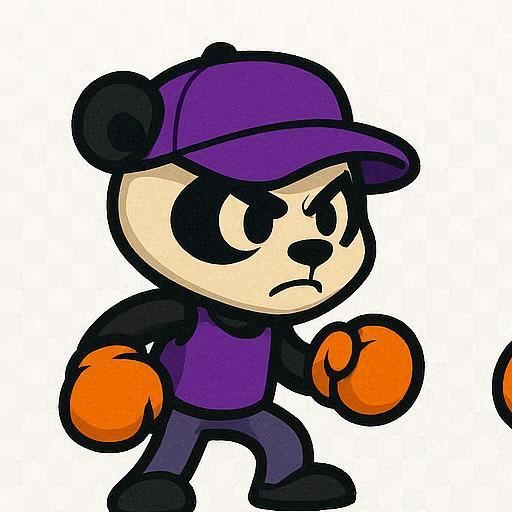
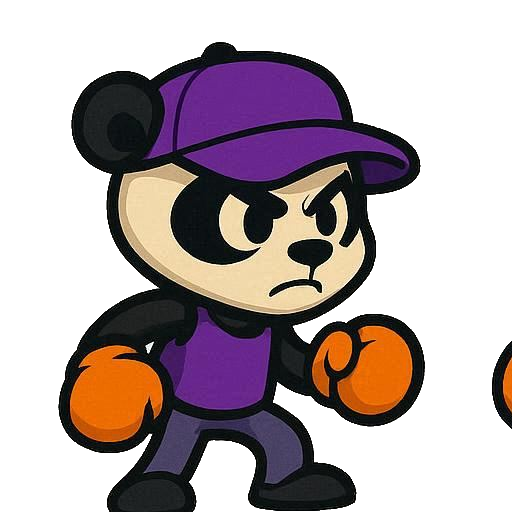
fix: new hero sprites + fix physics body underground bug
- Re-slice heroSprites.png (new cleaner artwork)
- Fix Player body: setOffset used texture coords (220,80) instead of
  world coords. Now setSize(46,68)/setOffset(23,18) aligns feet with
  ground (offset_y + height = 86px = 93% of 92px sprite height)
- Duck pose body corrected too: setSize(46,50)/setOffset(23,36)
- Fix Enemy/Ally scale: placeholder textures are 60-75px, scale was
  0.15 making them invisible; now scale 1.0 with corrected body

diff --git a/src/game/entities/Player.ts b/src/game/entities/Player.ts
@@ -37,8 +37,11 @@ export class Player extends Phaser.Physics.Arcade.Sprite {
 
         const body = this.body as Phaser.Physics.Arcade.Body;
         body.setGravityY(300);
-        body.setSize(60, 90);
-        body.setOffset(220, 80);
+        // Scale 0.18 → sprite displayed at 512*0.18 = 92px world size.
+        // Character feet sit at ~86px from sprite top (93% of cell height).
+        // Body (46×68): offset_y(18) + height(68) = 86 → bottom aligns with feet.
+        body.setSize(46, 68);
+        body.setOffset(23, 18);
         this.setScale(0.18);
         this.setDepth(10);
 
@@ -91,13 +94,14 @@ export class Player extends Phaser.Physics.Arcade.Sprite {
         // --- Duck ---
         if (onGround && this.keyDown.isDown && !moving) {
             this.setState('duck');
-            body.setSize(60, 60);
-            body.setOffset(220, 110);
+            // Shorter body when ducking: offset_y(36) + height(50) = 86 → same feet alignment
+            body.setSize(46, 50);
+            body.setOffset(23, 36);
             this.updateHitbox();
             return;
         } else {
-            body.setSize(60, 90);
-            body.setOffset(220, 80);
+            body.setSize(46, 68);
+            body.setOffset(23, 18);
         }
 
         // --- Jump ---

diff --git a/src/game/entities/Enemy.ts b/src/game/entities/Enemy.ts
@@ -43,8 +43,10 @@ export class Enemy extends Phaser.Physics.Arcade.Sprite {
 
         const body = this.body as Phaser.Physics.Arcade.Body;
         body.setGravityY(400);
-        body.setSize(50, 80);
-        this.setScale(0.15);
+        // Placeholder texture is 60×70px at scale 1.0 (world size 60×70px)
+        body.setSize(44, 62);
+        body.setOffset(8, 8);
+        this.setScale(1.0);
         this.setDepth(9);
 
         this.healthBarBg = scene.add.rectangle(x, y - 55, 50, 6, 0x333333).setDepth(20);

diff --git a/src/game/entities/Ally.ts b/src/game/entities/Ally.ts
@@ -20,7 +20,7 @@ export class Ally {
         this.playerRef = player;
         this.partLabel = partLabel;
 
-        this.sprite = scene.physics.add.sprite(x, y, 'ally').setScale(0.13).setDepth(8);
+        this.sprite = scene.physics.add.sprite(x, y, 'ally').setScale(1.0).setDepth(8);
         (this.sprite.body as Phaser.Physics.Arcade.Body).setAllowGravity(false);
         (this.sprite.body as Phaser.Physics.Arcade.Body).setImmovable(true);
 
